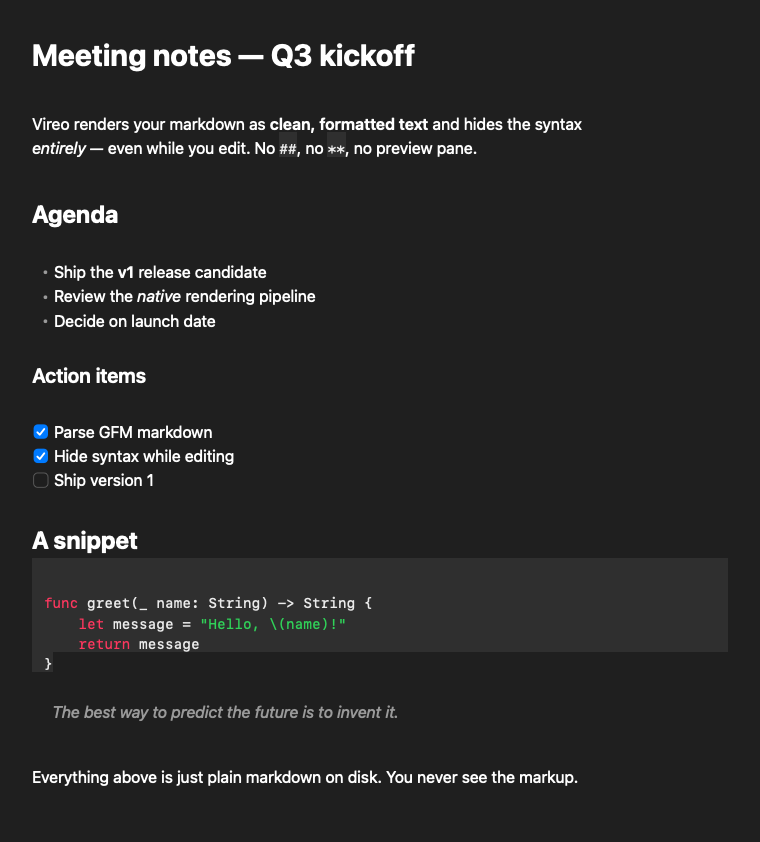
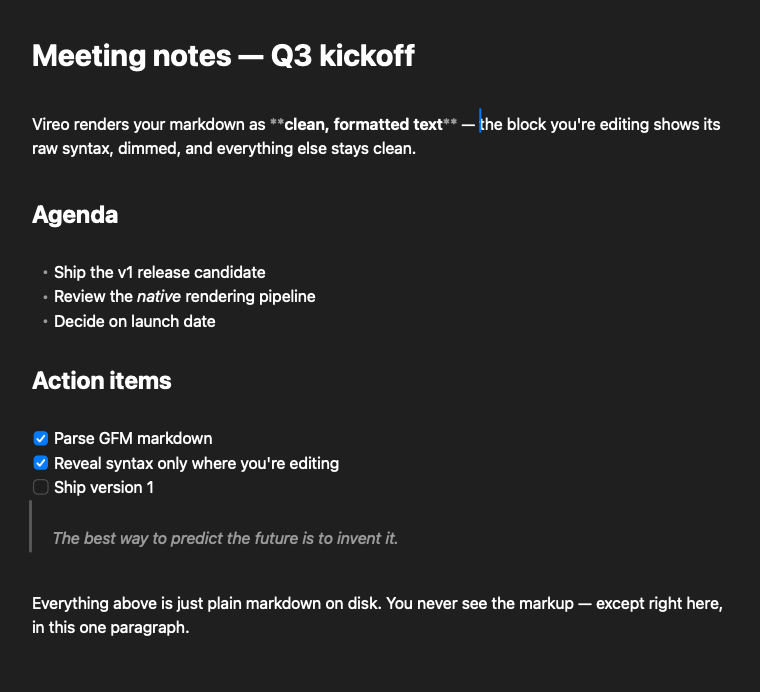
build(site): rewrite the landing page to the simple hero layout
Replace the long-form direct-response page with the approved copy: a
two-column hero (headline/subheader/download button on the left, the
screenshot beside it), nothing else. Fix a headless-Chrome viewport
minimum (500px) that had nothing to do with the CSS, while verifying
the mobile stack.

Regenerate hero.png through the real pipeline with the new --caret
flag instead of the old mockup, which baked in the claim that syntax
stays invisible the entire time you type — no longer true now that the
caret's block reveals its raw markdown, dimmed.

Claude-Session: https://claude.ai/code/session_01JeLie7eT6ZvGHJRV5Qp9uJ

diff --git a/site/index.html b/site/index.html
@@ -4,7 +4,10 @@
   <meta charset="UTF-8" />
   <meta name="viewport" content="width=device-width, initial-scale=1.0" />
   <title>Vireo — a simple, fast markdown editor for macOS</title>
-  <meta name="description" content="Your agent writes markdown. Vireo lets you read it. A simple, fast, native macOS markdown editor that hides the syntax — even while you edit. No vaults, no plugins, no subscription." />
+  <meta name="description" content="Vireo is a fast, native macOS markdown editor. It hides the syntax and shows it, dimmed, only where you're editing. Free, 4 MB, no vaults or plugins." />
+  <meta property="og:title" content="Vireo — a simple, fast markdown editor for macOS" />
+  <meta property="og:description" content="Every other markdown app shows you the code. Vireo shows you the words — except the one paragraph you're on." />
+  <meta property="og:image" content="hero.png" />
   <style>
     :root {
       /* Dark, slightly cool neutral base — everything else derives from this */
@@ -19,7 +22,7 @@
       --nm-light:  rgba(255,255,255,0.045);
       --nm-dark:   rgba(0,0,0,0.55);
 
-      --maxw: 660px;
+      --maxw: 1080px;
     }
 
     * { box-sizing: border-box; }
@@ -43,20 +46,24 @@
       padding: 0 24px;
     }
 
-    /* ---------- HERO ---------- */
-    header.hero {
-      padding: 128px 0 72px;
-      text-align: center;
+    /* ---------- HERO (two columns: pitch left, screenshot right) ---------- */
+    .hero {
+      display: grid;
+      grid-template-columns: minmax(0, 460px) minmax(0, 440px);
+      align-items: center;
+      justify-content: center;
+      gap: 72px;
+      min-height: 100vh;
+      padding: 64px 0;
     }
 
-    /* The one neumorphic headline: subtle gradient fill + soft emboss.
-       Gradient floor stays light (#cdced6) so multi-line wrapping never
-       pushes any word into the unreadable dark. */
+    .pitch { text-align: left; }
+
+    /* The one neumorphic headline: subtle gradient fill + soft emboss. */
     h1 {
-      margin: 0 auto;
-      max-width: 12ch;
-      font-size: clamp(38px, 7vw, 60px);
-      line-height: 1.08;
+      margin: 0;
+      font-size: clamp(34px, 4.4vw, 52px);
+      line-height: 1.12;
       font-weight: 700;
       letter-spacing: -0.02em;
       background: linear-gradient(180deg, #fbfbfd 0%, #cdced6 100%);
@@ -68,14 +75,14 @@
     }
 
     .subhead {
-      margin: 24px auto 0;
-      max-width: 34ch;
+      margin: 22px 0 0;
+      max-width: 42ch;
       font-size: 19px;
       color: var(--text-dim);
     }
 
     /* ---------- NEUMORPHIC BUTTON ---------- */
-    .cta { margin-top: 40px; }
+    .cta { margin-top: 36px; }
 
     .btn {
       display: inline-flex;
@@ -133,7 +140,6 @@
 
     /* ---------- SCREENSHOT ---------- */
     .shot {
-      margin: 24px auto 0;
       padding: 16px;
       border-radius: 20px;
       background: var(--bg-raised);
@@ -145,80 +151,52 @@
       display: block;
       width: 100%;
       height: auto;
+      max-height: 78vh;
+      object-fit: contain;
       border-radius: 10px;
     }
 
-    /* ---------- PLAIN TEXT SECTIONS ---------- */
-    section { padding: 32px 0; }
-
-    .letter p { margin: 0 0 20px; color: var(--text-hi); }
-    .letter .lead { font-weight: 500; }
-    .letter .sig { color: var(--text-dim); font-style: italic; }
-    .letter code {
-      font-family: "SF Mono", ui-monospace, "JetBrains Mono", monospace;
-      font-size: 0.86em;
-      color: var(--text-hi);
-      background: rgba(255,255,255,0.05);
-      padding: 2px 4px;
-      border-radius: 5px;
-    }
-
-    /* ---------- CLOSE ---------- */
-    .close { text-align: center; padding: 40px 0 20px; }
-    .close p { max-width: 40ch; margin: 0 auto 28px; color: var(--text); }
-
     footer {
       text-align: center;
-      padding: 48px 0 64px;
+      padding: 0 0 40px;
       font-size: 14px;
       color: var(--text-dim);
     }
     footer a { color: var(--text-dim); }
 
+    @media (max-width: 860px) {
+      /* Plain block flow, not grid: a single 1fr track under
+         justify-content: center sizes to the content's max-content width
+         instead of stretching, which let the headline overflow unwrapped. */
+      .hero { display: block; min-height: 0; padding: 72px 0 48px; }
+      .pitch { text-align: center; }
+      .subhead { margin-left: auto; margin-right: auto; }
+      .shot { margin-top: 40px; }
+    }
+
     @media (max-width: 480px) {
-      header.hero { padding: 88px 0 56px; }
       body { font-size: 17px; }
+      .hero { padding: 56px 0 40px; }
     }
   </style>
 </head>
 <body>
   <div class="wrap">
 
-    <!-- HERO -->
-    <header class="hero">
-      <h1>Your agent writes markdown. <span class="accent">Vireo lets you read it.</span></h1>
-      <p class="subhead">A simple, fast markdown editor for macOS. No vaults, no plugins, no subscription.</p>
-      <div class="cta">
-        <a class="btn" href="#download"><svg viewBox="0 0 384 512" fill="currentColor" aria-hidden="true"><path d="M318.7 268.7c-.2-36.7 16.4-64.4 50-84.8-18.8-26.9-47.2-41.7-84.7-44.6-35.5-2.8-74.3 20.7-88.5 20.7-15 0-49.4-19.7-76.4-19.7C63.3 141.2 4 184.8 4 273.5q0 39.3 14.4 81.2c12.8 36.7 59 126.7 107.2 125.2 25.2-.6 43-17.9 75.8-17.9 31.8 0 48.3 17.9 76.4 17.9 48.6-.7 90.4-82.5 102.6-119.3-65.2-30.7-61.7-90-61.7-91.9zm-56.6-164.2c27.3-32.4 24.8-61.9 24-72.5-24.1 1.4-52 16.4-67.9 34.9-17.5 19.8-27.8 44.3-25.6 71.9 26.1 2 49.9-11.4 69.5-34.3z"/></svg>Download for Mac — Free</a>
-        <p class="cta-meta">Native · 4&nbsp;MB · macOS&nbsp;15+ · Apple&nbsp;Silicon</p>
+    <div class="hero">
+      <div class="pitch">
+        <h1>Your agent writes markdown. Vireo lets you read it.</h1>
+        <p class="subhead">A simple, fast markdown editor for macOS that hides the syntax — except right where you're editing.</p>
+        <div class="cta">
+          <a class="btn" href="#"><svg viewBox="0 0 384 512" fill="currentColor" aria-hidden="true"><path d="M318.7 268.7c-.2-36.7 16.4-64.4 50-84.8-18.8-26.9-47.2-41.7-84.7-44.6-35.5-2.8-74.3 20.7-88.5 20.7-15 0-49.4-19.7-76.4-19.7C63.3 141.2 4 184.8 4 273.5q0 39.3 14.4 81.2c12.8 36.7 59 126.7 107.2 125.2 25.2-.6 43-17.9 75.8-17.9 31.8 0 48.3 17.9 76.4 17.9 48.6-.7 90.4-82.5 102.6-119.3-65.2-30.7-61.7-90-61.7-91.9zm-56.6-164.2c27.3-32.4 24.8-61.9 24-72.5-24.1 1.4-52 16.4-67.9 34.9-17.5 19.8-27.8 44.3-25.6 71.9 26.1 2 49.9-11.4 69.5-34.3z"/></svg>Download for Mac — Free</a>
+          <p class="cta-meta">Native · 4&nbsp;MB · macOS&nbsp;15+ · Apple&nbsp;Silicon</p>
+        </div>
       </div>
-    </header>
 
-    <!-- SCREENSHOT -->
-    <div class="shot">
-      <img src="hero.png" alt="A markdown document open in Vireo — rendered as clean formatted text with the syntax hidden." />
+      <div class="shot">
+        <img src="hero.png" alt="A markdown document open in Vireo. Most of it renders clean; the paragraph under the caret shows its raw markdown, dimmed." />
+      </div>
     </div>
-
-    <!-- FOUNDER'S LETTER -->
-    <section class="letter">
-      <p class="lead">Markdown gets treated like plumbing. It deserves better. Markdown is a small miracle.</p>
-      <p>It's just text. It outlives every app that ever touches it. It's the one format your notes, your README, your agent, and your future self all speak fluently — write it once, open it anywhere, forever. Nothing else in software is that simple and that durable at the same time.</p>
-      <p>But somewhere along the way, the apps forgot that.</p>
-      <p>They bolted on vaults and plugin marketplaces. They wrapped a plain text file in a 300-megabyte browser that idles like a space heater. They locked your notes in a database and started charging you monthly rent to read your own writing. And the ones that stayed "simple" just shrugged and left the raw <code>##</code> and <code>**</code> sitting on the screen — like it's 2011 — and called it clean.</p>
-      <p>So now markdown feels like a chore. AI writes it, AI understands it. But you don't — you're left with a "vault," whatever that means, and a graph view you've looked at exactly twice.</p>
-      <p>And yet — the magic is still there. It's just buried under a decade of feature creep and neglect.</p>
-      <p>Markdown deserves a dust-off. An app that remembers it's <em>just text</em>: opens it before you blink, hides the syntax, and shows you the words. Fast. Native. Yours. Nothing in the way.</p>
-      <p>So we built it. No vaults. No plugins. No subscription. Your markdown, finally readable and editable — the way it should have been all along.</p>
-      <p>Vireo is what I think markdown should feel like. Set it as your default, and I hope you forget it's even running.</p>
-      <p class="sig">— Mate Rauscher</p>
-    </section>
-
-    <!-- CLOSE -->
-    <section class="close" id="download">
-      <p>Open a <code style="font-family:'SF Mono',ui-monospace,monospace;font-size:0.9em;color:var(--text-hi);">.md</code> file in Vireo and you'll see what your writing was supposed to look like the whole time. No syntax, no spinner, no monthly fee, no catch.</p>
-      <a class="btn" href="#"><svg viewBox="0 0 384 512" fill="currentColor" aria-hidden="true"><path d="M318.7 268.7c-.2-36.7 16.4-64.4 50-84.8-18.8-26.9-47.2-41.7-84.7-44.6-35.5-2.8-74.3 20.7-88.5 20.7-15 0-49.4-19.7-76.4-19.7C63.3 141.2 4 184.8 4 273.5q0 39.3 14.4 81.2c12.8 36.7 59 126.7 107.2 125.2 25.2-.6 43-17.9 75.8-17.9 31.8 0 48.3 17.9 76.4 17.9 48.6-.7 90.4-82.5 102.6-119.3-65.2-30.7-61.7-90-61.7-91.9zm-56.6-164.2c27.3-32.4 24.8-61.9 24-72.5-24.1 1.4-52 16.4-67.9 34.9-17.5 19.8-27.8 44.3-25.6 71.9 26.1 2 49.9-11.4 69.5-34.3z"/></svg>Download Vireo for Mac — Free</a>
-      <p class="cta-meta" style="margin-top:16px;">macOS&nbsp;15+ · Apple&nbsp;Silicon · notarized direct download · your files stay yours</p>
-    </section>
 
     <footer>
       <p>Vireo — a simple, fast markdown editor for macOS.</p>

diff --git a/docs/landing-page.md b/docs/landing-page.md
@@ -63,6 +63,18 @@ the paragraph under the caret shows its raw markdown, dimmed.
 **Optional caption** (only if the layout has room):
 The syntax shows only where you're editing. Move on, and it hides again.
 
+**How to regenerate:** `site/hero.png` renders from `site/hero-source.md`
+through the real pipeline, not a mockup:
+
+```bash
+swift run VireoSnapshot site/hero-source.md site/hero.png --caret 89 --dark
+```
+
+`--caret <offset>` is a `VireoSnapshot`-only flag (`Sources/VireoSnapshot/main.swift`)
+that reveals the block at that character offset, dimmed, the way the live
+editor reveals the caret's block. `89` lands inside the second paragraph of
+`hero-source.md`; recompute it if that file changes.
+
 ---
 
 ## SUPPORTING COPY (for `<head>` / social sharing, not shown on the page)

diff --git a/site/hero-source.md b/site/hero-source.md
@@ -1,0 +1,19 @@
+# Meeting notes — Q3 kickoff
+
+Vireo renders your markdown as **clean, formatted text** — the block you're editing shows its raw syntax, dimmed, and everything else stays clean.
+
+## Agenda
+
+- Ship the v1 release candidate
+- Review the *native* rendering pipeline
+- Decide on launch date
+
+## Action items
+
+- [x] Parse GFM markdown
+- [x] Reveal syntax only where you're editing
+- [ ] Ship version 1
+
+> The best way to predict the future is to invent it.
+
+Everything above is just plain markdown on disk. You never see the markup — except right here, in this one paragraph.
